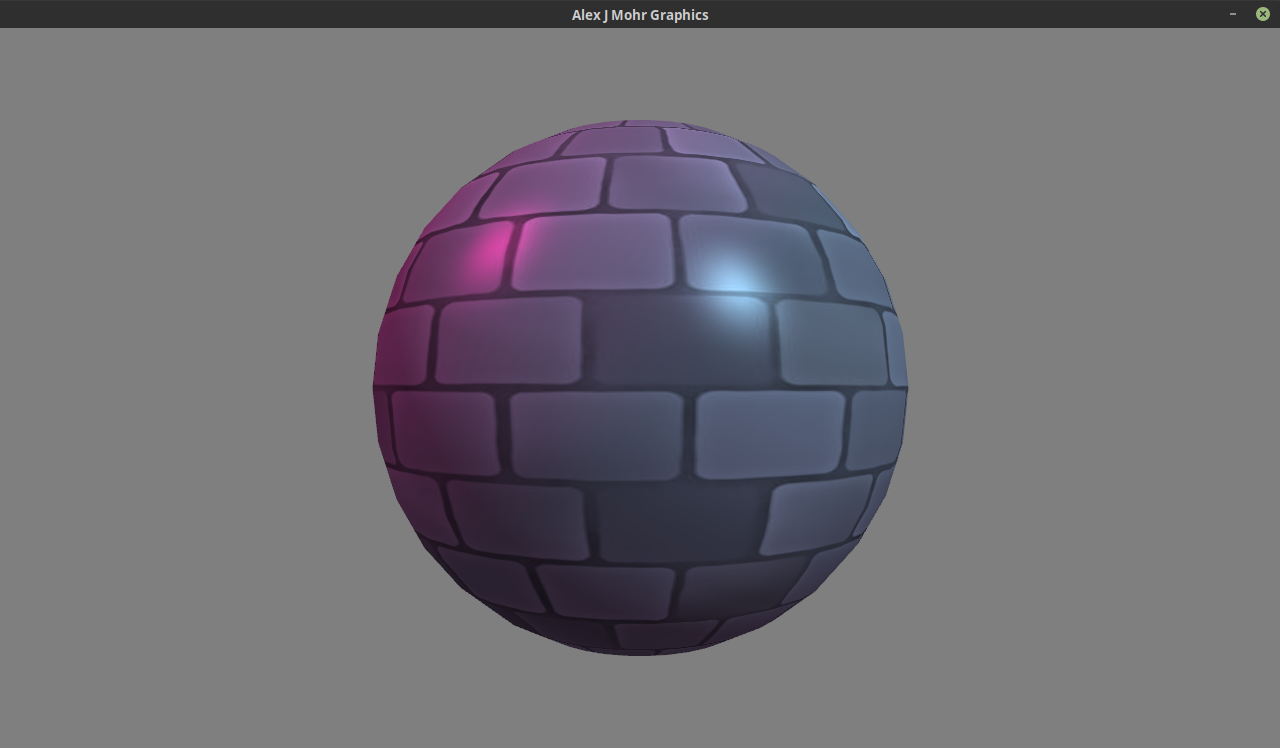
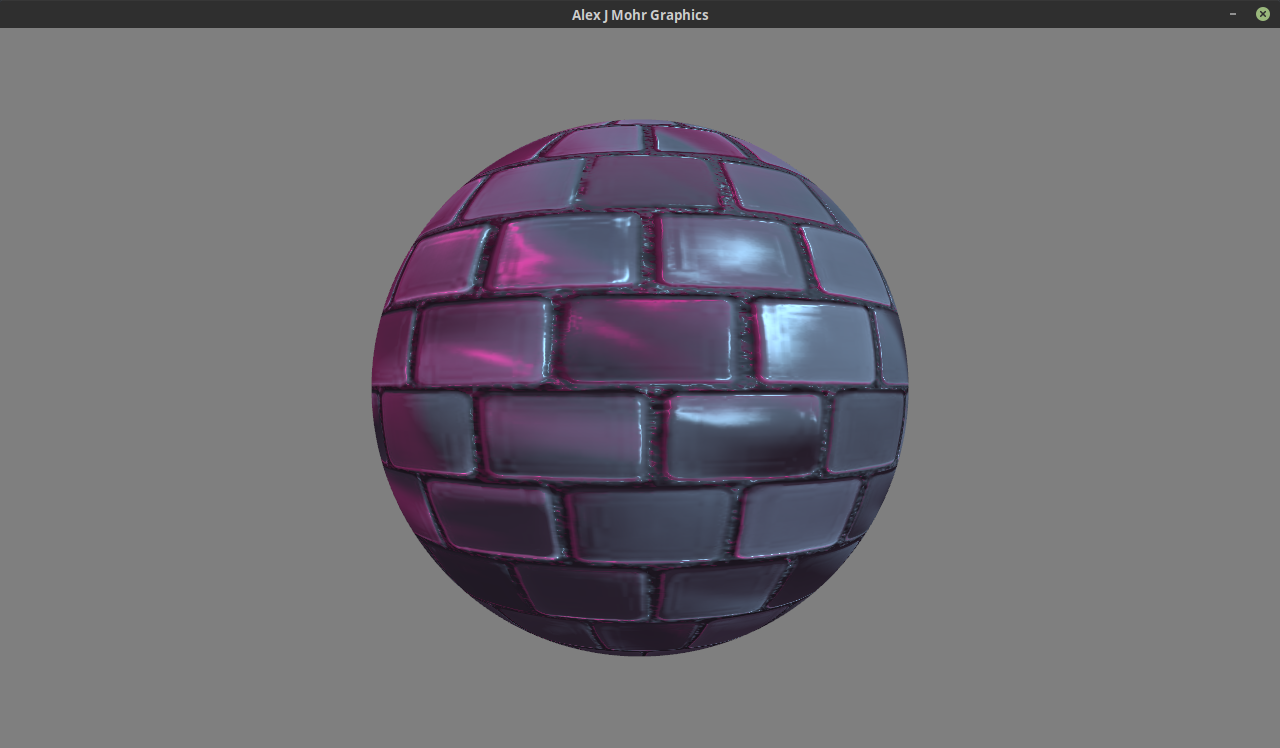
added normal map screenshot and link to video in README

Changed region(s): [[0.2812, 0.1537, 0.7188, 0.8302], [0.375, 0.7995, 0.4062, 0.8302]]

diff --git a/README.md b/README.md
@@ -2,6 +2,8 @@
 
 3D OpenGL graphics project. See the Features section below.
 
+[Click here](https://youtu.be/PzN2fz64qHs) for a video of what is currently implemented.
+
 ## Dependencies
 
 - Java 10 (lower versions might work)
@@ -11,6 +13,7 @@
 
 - [x] Model Loading
 - [x] Textures
+- [x] Normal Maps
 - [x] Basic Lighting (single light source)
 - [ ] Advanced Lighting
     - [x] Directional Light
